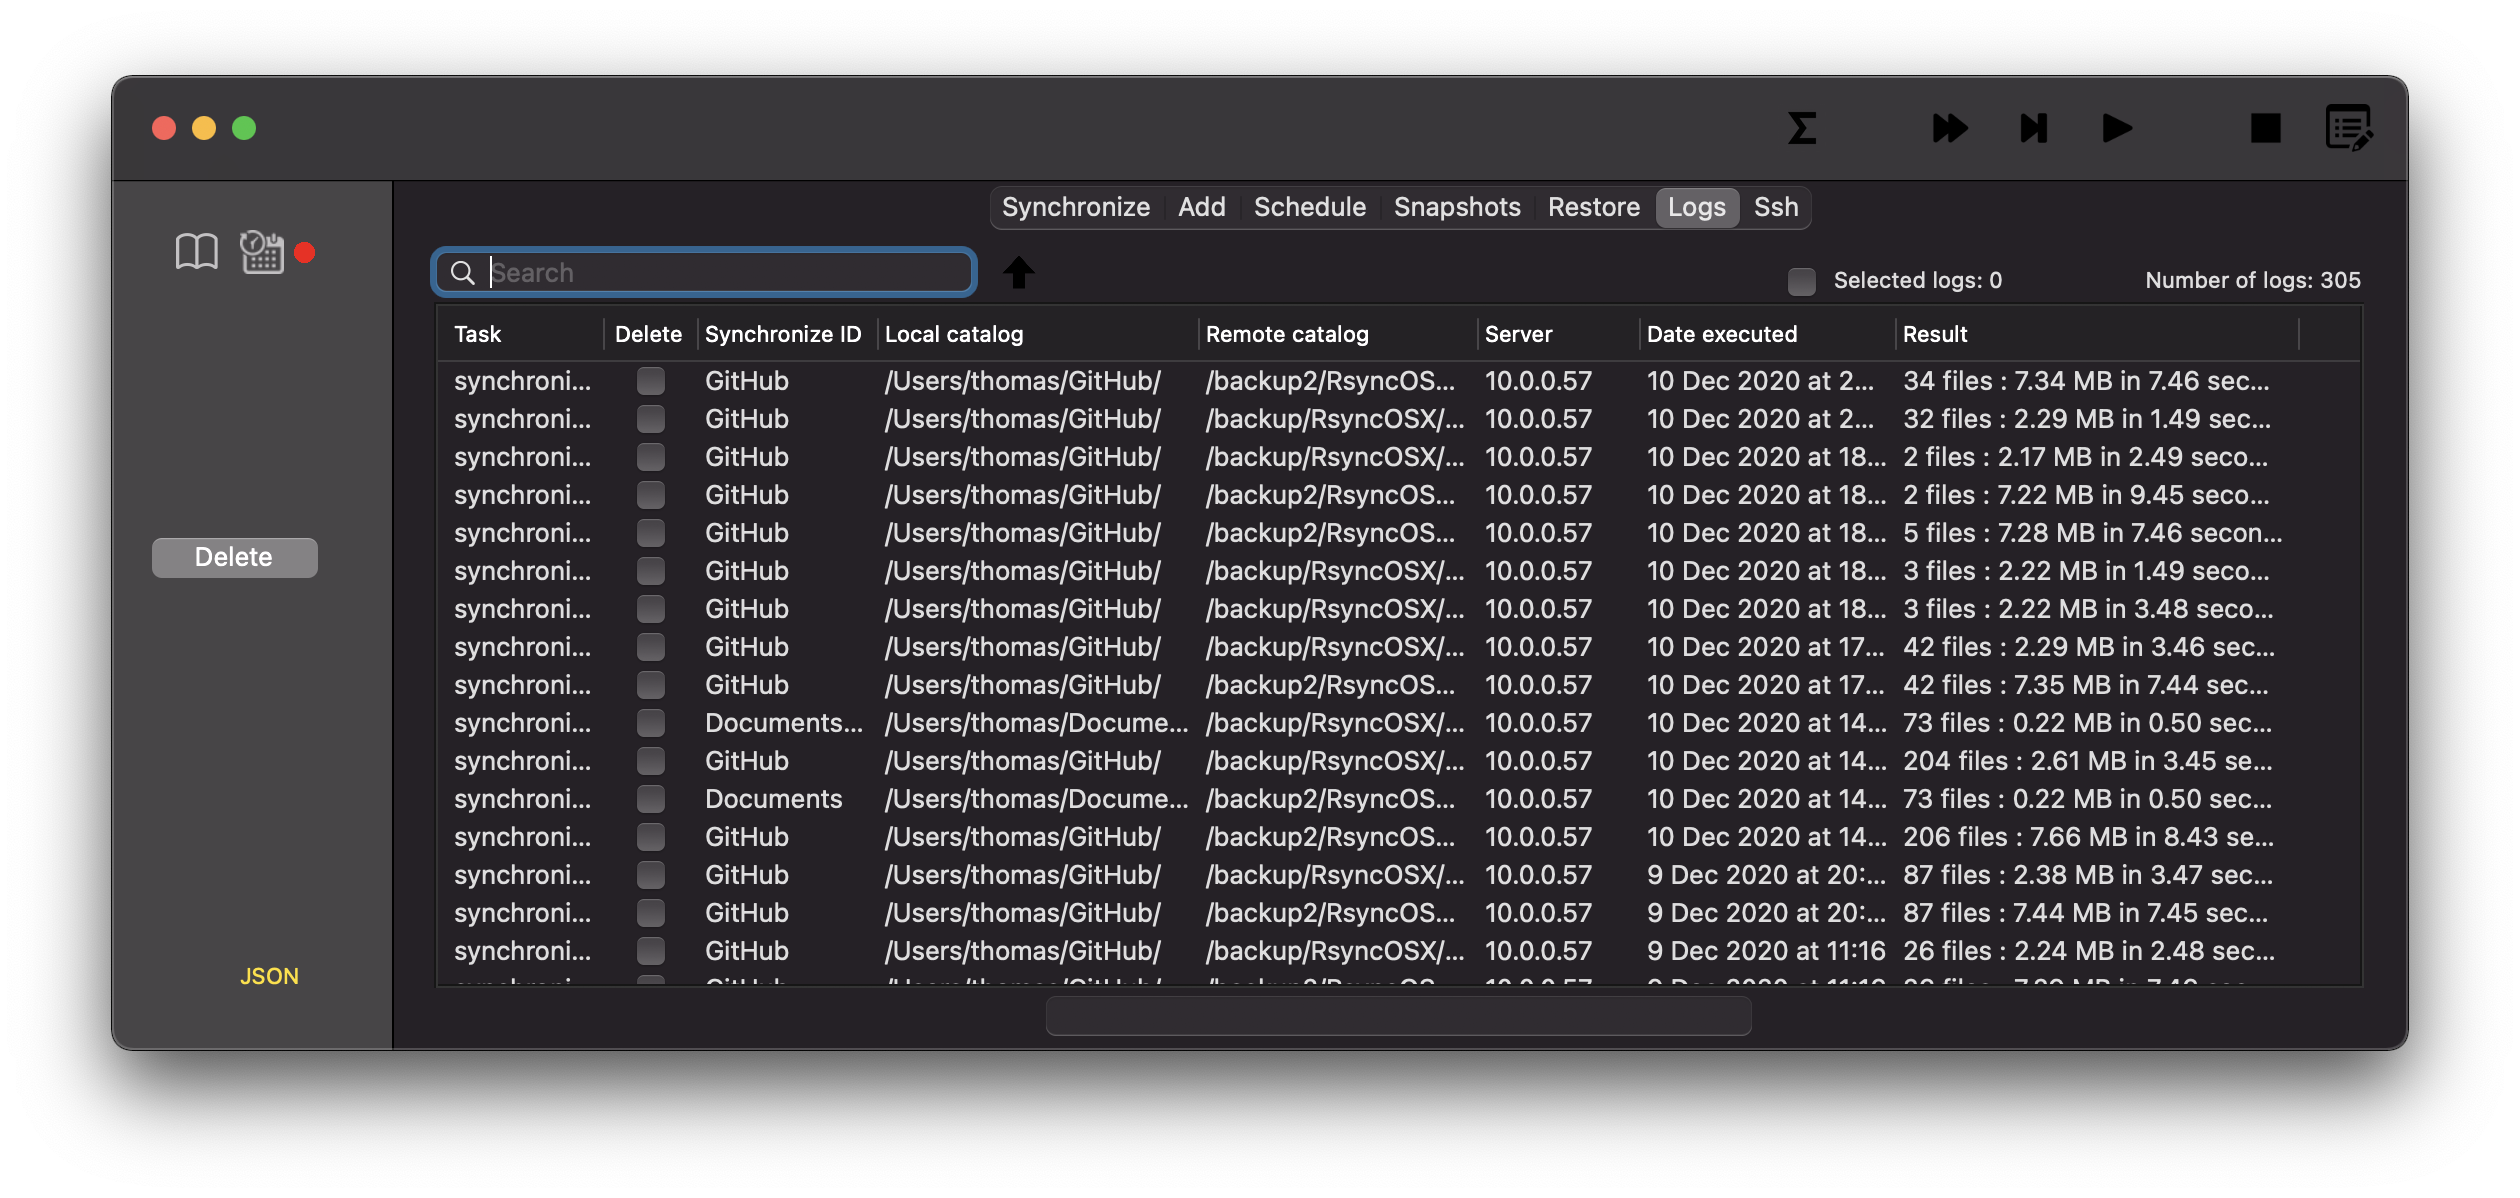
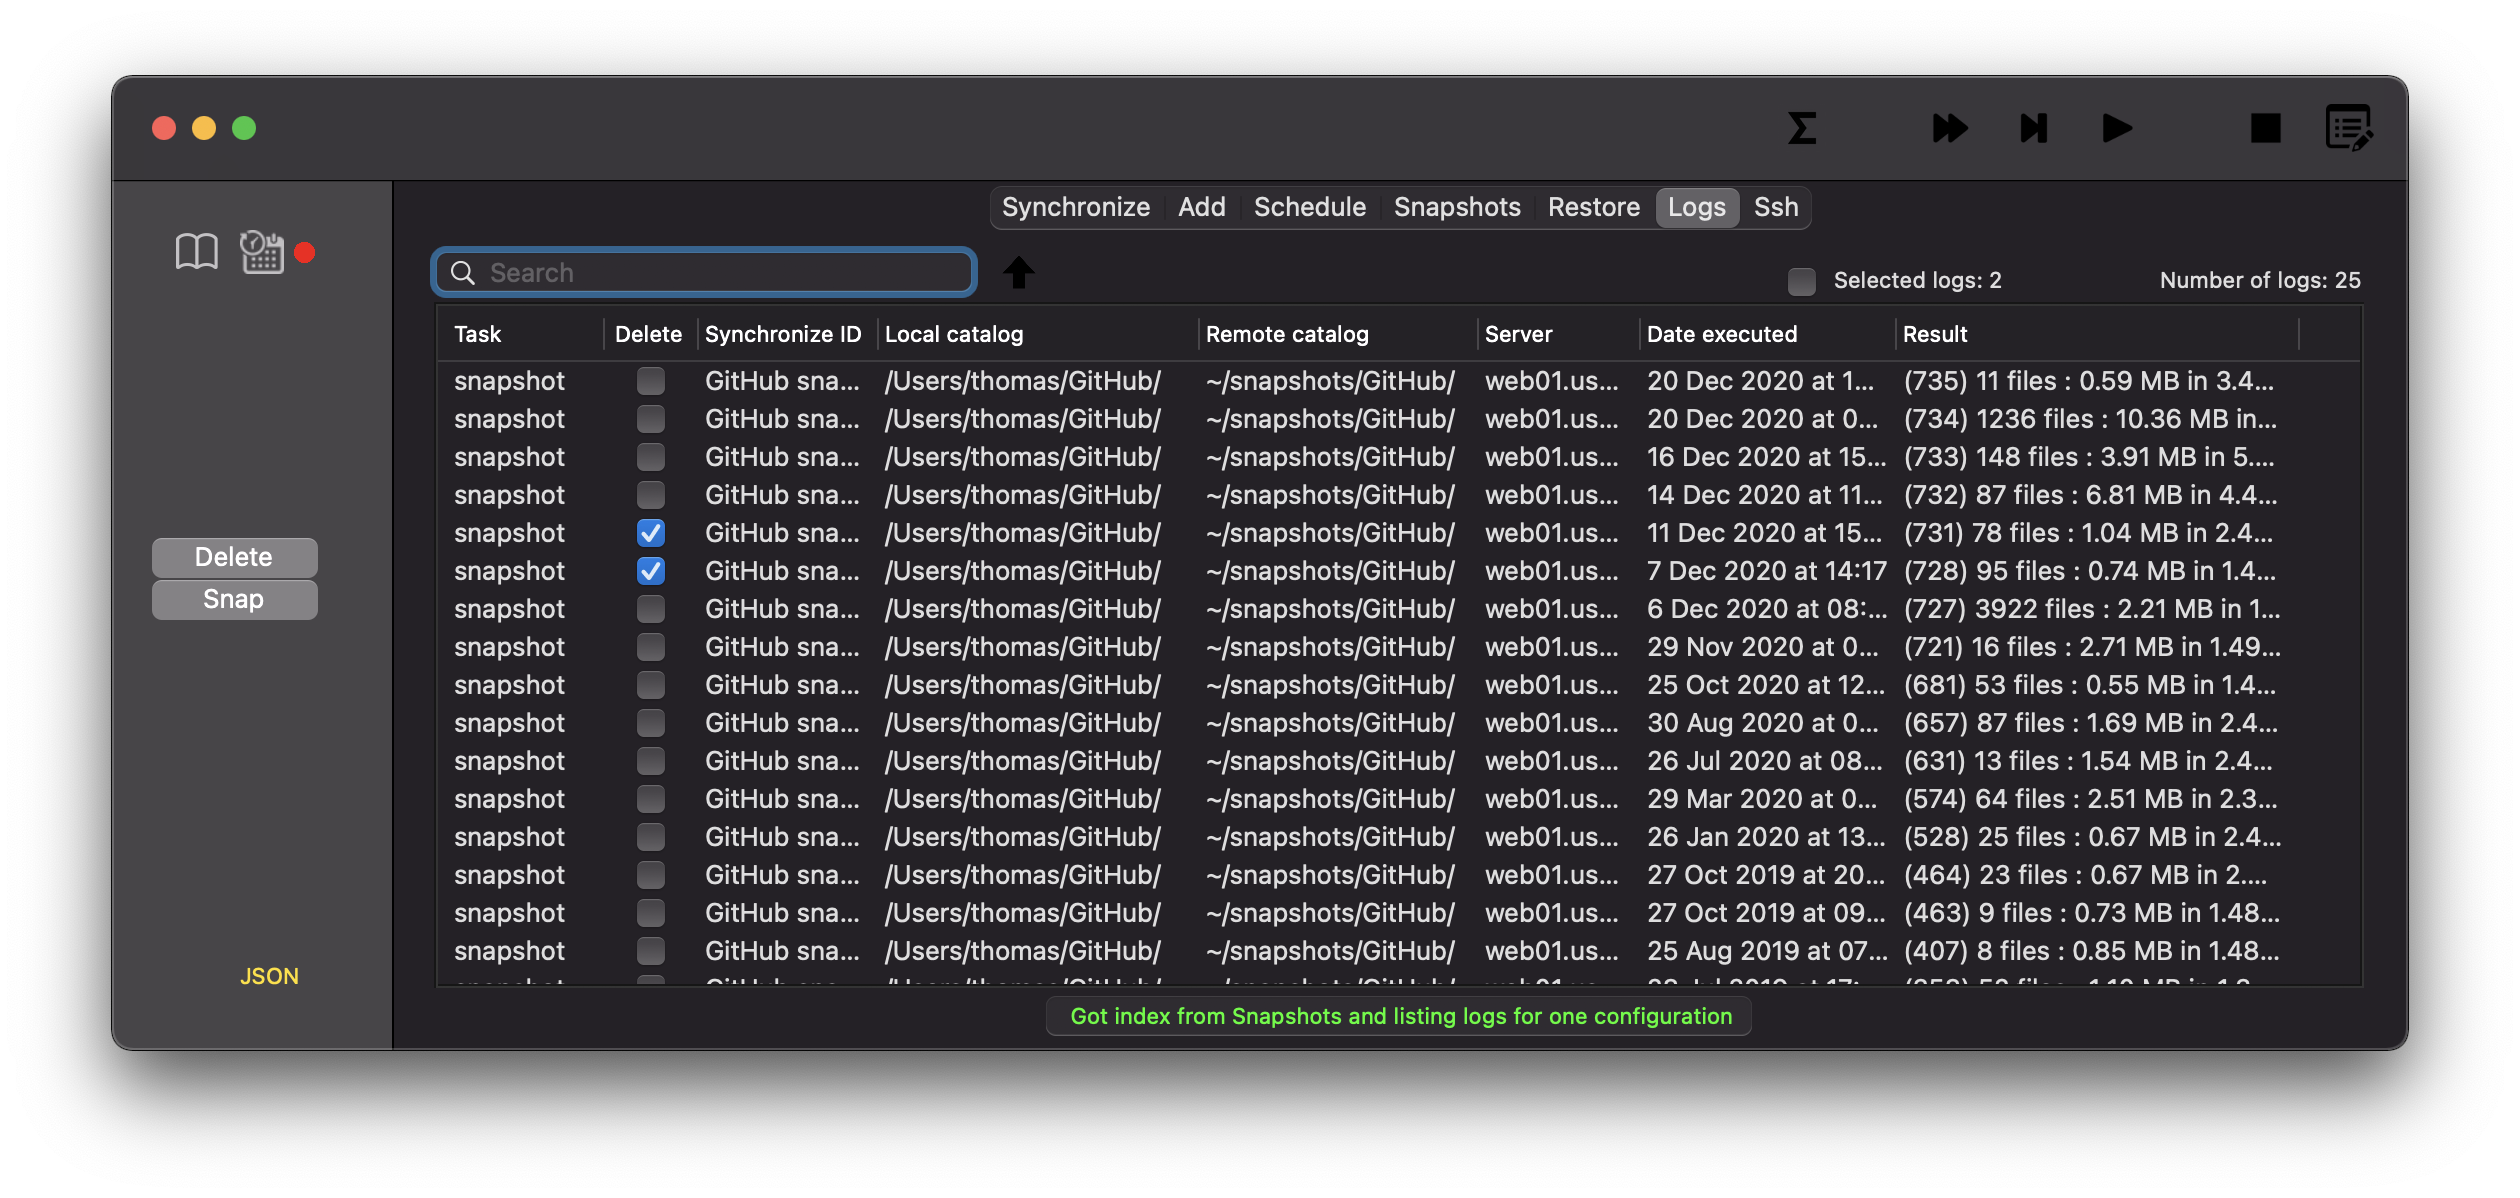
update

diff --git a/content/post/Logging.md b/content/post/Logging.md
@@ -7,8 +7,12 @@ categories = ["general information"]
 description = "There are a few logging options to file in RsyncOSX."
 lastmod = "2020-12-13"
 +++
-Logging in RsyncOSX might be switched on/off in user configuration. All log records are listed in table within Logs tab. The log records are by default sorted with most recent ontop. Log records can be filtered by text search by selecting the appropriate column. The direction, ascending or descending, is selected by direction of the arrow.
+Logging in RsyncOSX might be switched on/off in user configuration. All log records are listed in table within Logs tab. The log records are by default sorted with most recent ontop. Log records can be **filtered** by **date** by search field. Any column can be sorted by selecting the appropriate columne. The sort direction, ascending or descending, is selected by direction of the arrow.
 
 Log records can be selected for delete as well. To filter a log record select the appropriate column. As an example you might filter logs by date or month and then select all filtered log records for deleting. You are prompted to confirm a deleting of log records.
+
+## Snap
+
+The snap button marks logs for delete. It is only valid for snapshots. The marked logs are log records where the appropriate snapshot catalog is cleaned and deleted. Snapshots are cleand within the [snapshot tab](/post/snapshots/).
 
 ![](/images/RsyncOSX/master/logging/logs.png)
